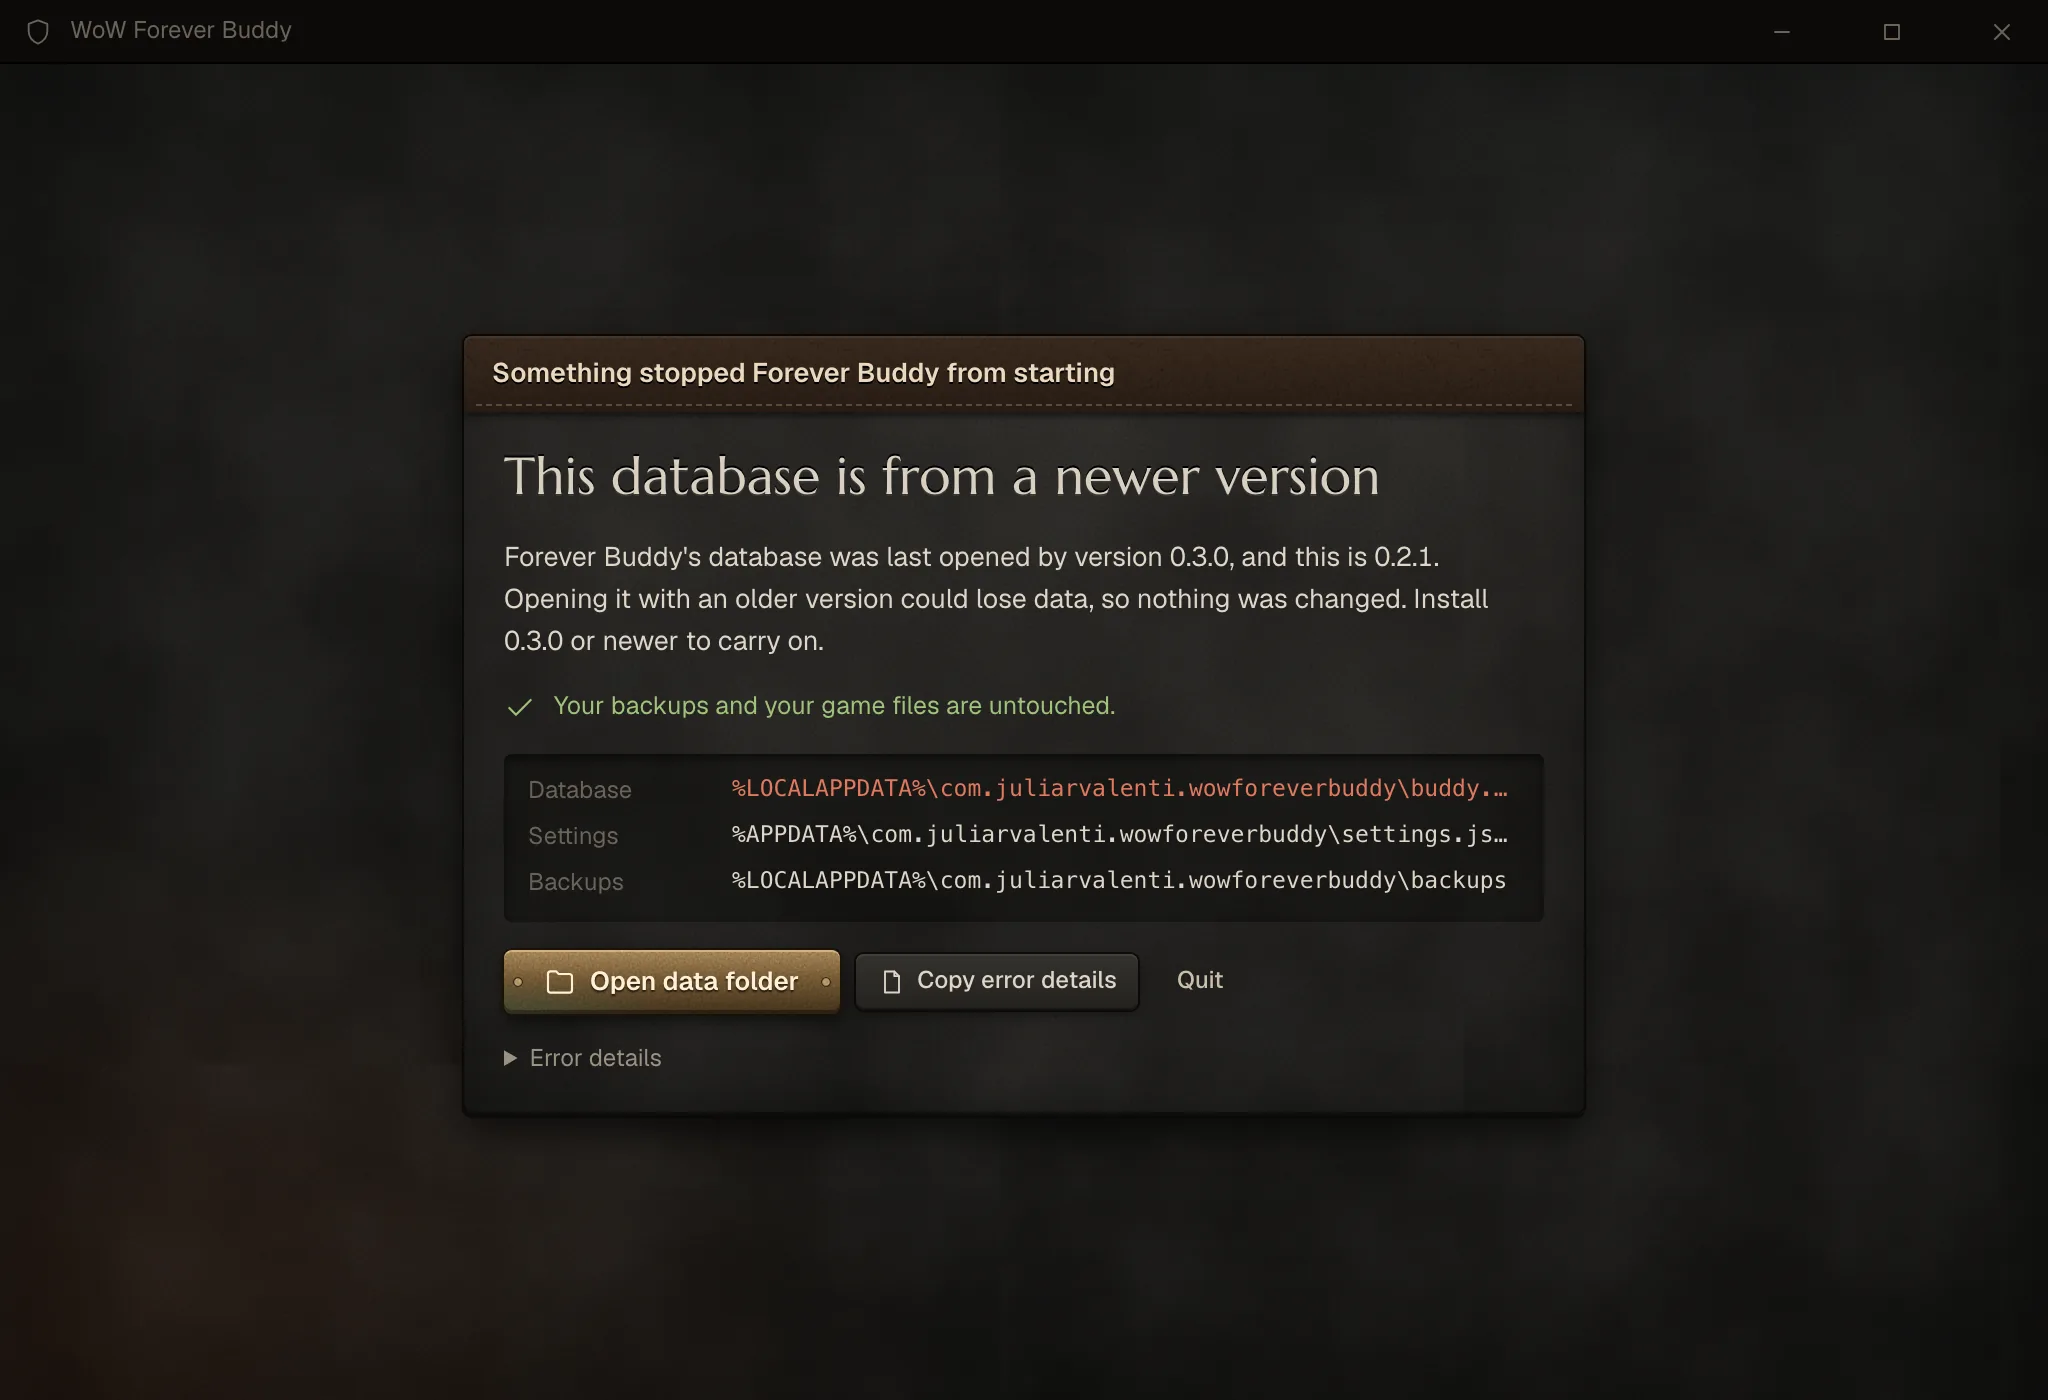
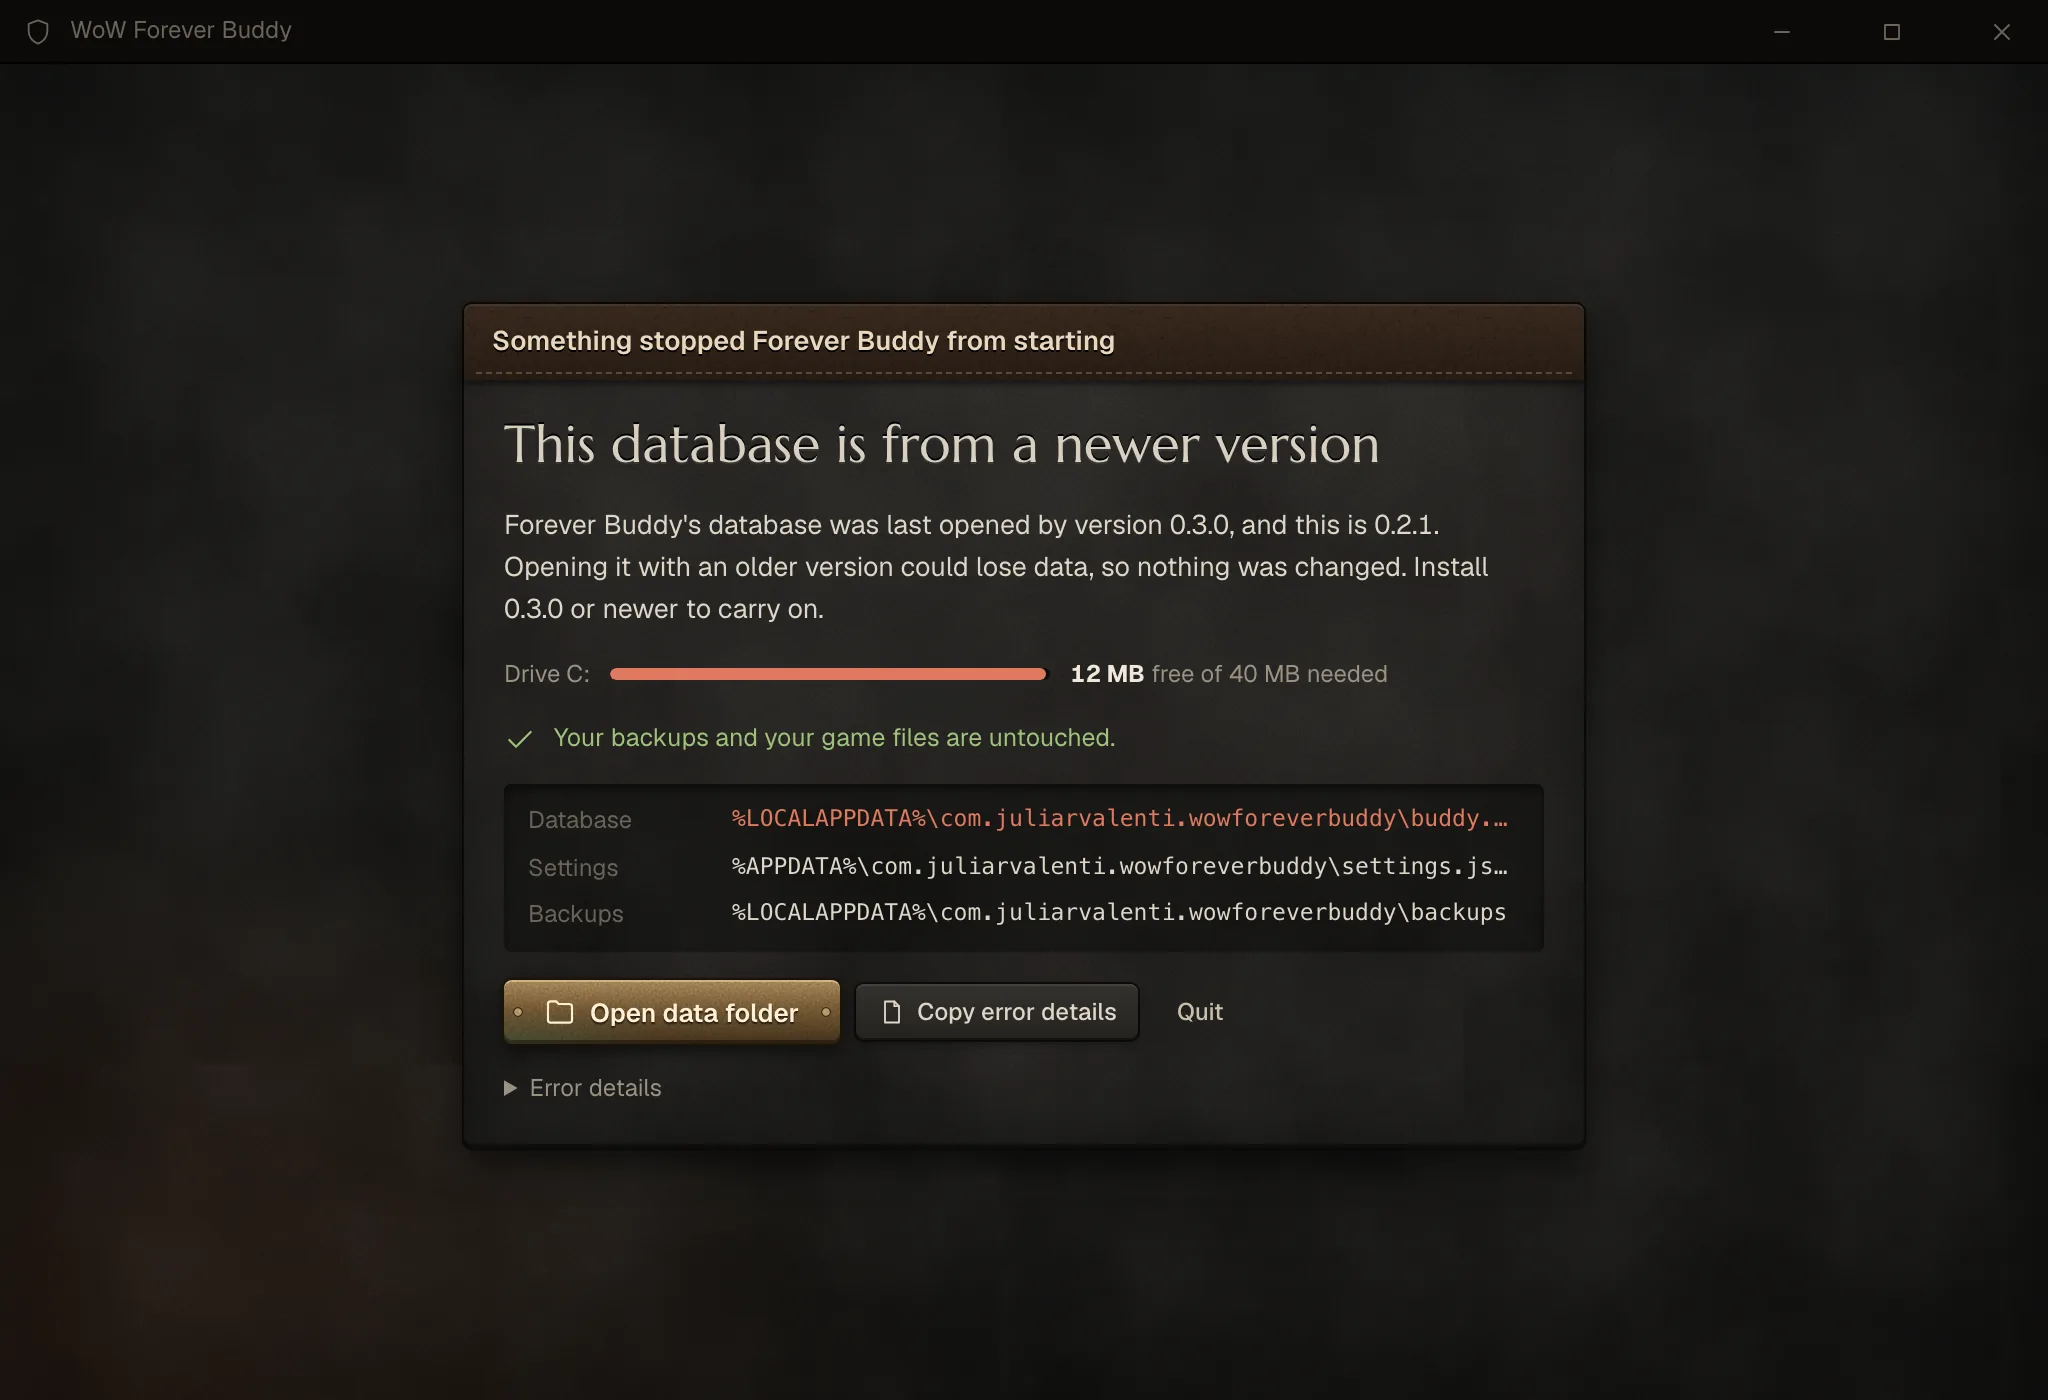
Design: startup error when the pre-update safety copy fails (V5)
startup-error.html?case=copy (+ &confirm): Try again as primary, Open data
folder, a quiet 'Update without a safety copy…' behind a one-shot
confirm (Cancel default, danger text, never bronze). Disk-full shows
free vs needed. IMPLEMENTING §6 and the errors gallery updated.

Changed region(s): [[0.2188, 0.3071, 0.75, 0.7986], [0.2188, 0.215, 0.7812, 0.2764]]

diff --git a/design/mocks/round-3/startup-error.html b/design/mocks/round-3/startup-error.html
@@ -23,7 +23,16 @@
   details { font-size: 12px; color: var(--ash); }
   details summary { cursor: pointer; color: var(--ash); }
   details pre { margin-top: 8px; padding: 10px 12px; border-radius: var(--r); background: rgba(0,0,0,.35); font: 11px/1.5 ui-monospace, Menlo, monospace; color: var(--soot); white-space: pre-wrap; }
-  .case { display: none; } body.c-newer .c-newer, body.c-settings .c-settings { display: revert; }
+  .case { display: none; } body.c-newer .c-newer, body.c-settings .c-settings, body.c-copy .c-copy { display: revert; }
+  /* `revert` would drop flex on these, so set it back */
+  body.c-newer .acts.c-newer, body.c-settings .acts.c-settings, body.c-copy .acts.c-copy, body.c-copy .space.c-copy { display: flex; }
+  body.c-copy .p-db code { color: var(--bad); }
+  .space { display: flex; align-items: center; gap: 10px; font-size: 12px; color: var(--ash); }
+  .space .bar { flex: 1; max-width: 220px; }
+  .space .bar i { background: var(--bad); }
+  .btn.danger { color: #f3b8a6; }
+  .scrim .dialog .body { padding: 14px 16px 10px; display: grid; gap: 10px; font-size: 13px; color: var(--ash); }
+  .scrim .dialog .body b { color: var(--chalk-hi); font-weight: 500; }
 </style>
 </head>
 <body data-shell="bare" class="c-newer">
@@ -33,9 +42,13 @@
     <div class="pb">
       <h1 class="case c-newer">This database is from a newer version</h1>
       <h1 class="case c-settings">Your settings file can't be read</h1>
+      <h1 class="case c-copy">Forever Buddy couldn't make a safety copy before updating</h1>
 
       <p class="what case c-newer">Forever Buddy's database was last opened by version 0.3.0, and this is 0.2.1. Opening it with an older version could lose data, so nothing was changed. Install 0.3.0 or newer to carry on.</p>
       <p class="what case c-settings">The settings file looks damaged, so Forever Buddy stopped before using it. Nothing was changed. You can open the folder and move the file aside; Forever Buddy will start with default settings and find your game again.</p>
+
+      <p class="what case c-copy">This version needs to update your data, and it always copies it first. The copy didn't work because the drive is full: about 40 MB is needed and 12 MB is free. Nothing was changed. Free up some space and try again.</p>
+      <div class="space case c-copy"><span>Drive C:</span><span class="bar" style="display:block"><i class="fill" style="width:99%"></i></span><span><b style="color:var(--chalk-hi)">12 MB</b> free of 40 MB needed</span></div>
 
       <div class="safe"><i data-i="check"></i><span>Your backups and your game files are untouched.</span></div>
 
@@ -45,9 +58,16 @@
         <div><span>Backups</span><code>%LOCALAPPDATA%\com.juliarvalenti.wowforeverbuddy\backups</code></div>
       </div>
 
-      <div class="acts">
+      <div class="acts case c-newer c-settings">
         <button class="primary"><i data-i="folder"></i>Open data folder</button>
         <button class="btn"><i data-i="file" class="sm"></i>Copy error details</button>
+        <button class="btn ghost">Quit</button>
+      </div>
+      <!-- copy failed: Try again first (most causes pass); the way out is quiet and behind a confirm -->
+      <div class="acts case c-copy">
+        <button class="primary"><i data-i="refresh"></i>Try again</button>
+        <button class="btn"><i data-i="folder" class="sm"></i>Open data folder</button>
+        <button class="btn ghost" id="noCopy">Update without a safety copy…</button>
         <button class="btn ghost">Quit</button>
       </div>
 
@@ -57,13 +77,30 @@
 buddy.db user_version 4 · app 0.2.1 · 2026-10-04 22:41:07</pre>
         <pre class="case c-settings">AppCore::new: Settings(Parse { line: 14, column: 3 })
 settings.json · app 0.2.1 · 2026-10-04 22:41:07</pre>
+        <pre class="case c-copy">migration 004: pre-migration copy failed
+VACUUM INTO: disk full · fallback file copy: disk full · app 0.2.0 · 2026-10-05 08:02:11</pre>
       </details>
     </div>
   </article>
+
+  <!-- startup-error.html?case=copy&confirm : one-shot, never saved; asked again next time -->
+  <div class="scrim" id="confirm">
+    <div class="panel dialog" style="width:470px">
+      <div class="ph"><h2>Update without a safety copy?</h2></div>
+      <div class="body">
+        <p>If the update fails partway, your gold history and adventures may be lost. Forever Buddy would fall back to the daily copy from <b>yesterday, 21:40</b>, or start fresh if there isn't one.</p>
+        <p>Your game backups and your game files aren't affected.</p>
+        <p class="muted" style="font-size:12px">This only applies to this update. If a later one can't make a copy, you'll be asked again.</p>
+      </div>
+      <div class="foot"><button class="btn ghost">Cancel</button><button class="btn danger">Update anyway</button></div>
+    </div>
+  </div>
 </main>
 <script>
-  const c = new URLSearchParams(location.search).get('case');
+  const q = new URLSearchParams(location.search), c = q.get('case');
   if (c === 'settings') document.body.className = 'c-settings';
+  if (c === 'copy') document.body.className = 'c-copy';
+  if (c === 'copy' && q.has('confirm')) document.getElementById('confirm').classList.add('open');
 </script>
 <script src="_shell.js"></script>
 </body>

diff --git a/design/mocks/round-3/errors.html b/design/mocks/round-3/errors.html
@@ -39,6 +39,8 @@
     ['dashboard.html?folder=missing', 'dashboard-folder-missing', 'Game folder gone', 'Drive unplugged: calm stone banner, data shown as last known.'],
     ['startup-error.html', 'startup-error', "Can't start: newer database", 'AppCore::new failed. No nav; what happened, where the data lives, Open data folder.'],
     ['startup-error.html?case=settings', 'startup-error-settings', "Can't start: settings unreadable", 'Same screen, settings.json flagged; start fresh by moving the file aside.'],
+    ['startup-error.html?case=copy', 'startup-error-copy', "Can't update: no safety copy", 'Pre-update copy failed (disk full). Try again first; the way out is quiet.'],
+    ['startup-error.html?case=copy&confirm', 'startup-error-copy-confirm', 'Update without a safety copy', 'One-shot confirm: what could be lost, the fallback copy, Cancel by default.'],
   ].map(card).join('');
 </script>
 <script src="_shell.js"></script>

diff --git a/design/mocks/round-3/IMPLEMENTING.md b/design/mocks/round-3/IMPLEMENTING.md
@@ -102,6 +102,21 @@ When `AppCore::new` fails, open the window anyway and show `startup-error.html`:
 
 Cases: `?case=newer` (default: the database is from a newer version) and `?case=settings` (unreadable settings).
 
+**`?case=copy`: the safety copy before a data update failed** (V5; shown only after `VACUUM INTO` *and* the plain file-copy fallback have both failed).
+- **Title:** "Forever Buddy couldn't make a safety copy before updating".
+- **Body:** "This version needs to update your data, and it always copies it first. The copy didn't work because <reason in plain words>. Nothing was changed." For a full disk, also show the free space against the space needed, with a small meter. The database path is red. Keep the green "Your backups and your game files are untouched."
+- **Actions, in order:**
+  1. Primary "Try again"; most causes, such as an antivirus lock, pass.
+  2. "Open data folder".
+  3. Ghost "Update without a safety copy…".
+  4. Quit.
+- **Confirm (`&confirm`):**
+  - Title: "Update without a safety copy?"
+  - Body: "If the update fails partway, your gold history and adventures may be lost. Forever Buddy would fall back to the daily copy from <date>, or start fresh if there isn't one." Then "Your game backups and your game files aren't affected."
+  - A muted line: "This only applies to this update."
+  - Buttons: Cancel (the default), and "Update anyway" as plain danger text, never bronze.
+  - The override is one-shot and never saved, and the command only works from this state.
+
 ## 7. v0.2 (companion addon) notes
 These follow `specs/v0.2-addon` §8.
 - **Item tooltips** cite date and zone, never a source: "Looted 12 Sep · Molten Core". Boss *encounters* are shared in full, so a timeline line like "Defeated Baron Rivendare" is fine, but a tooltip never says "Looted from <boss>".
